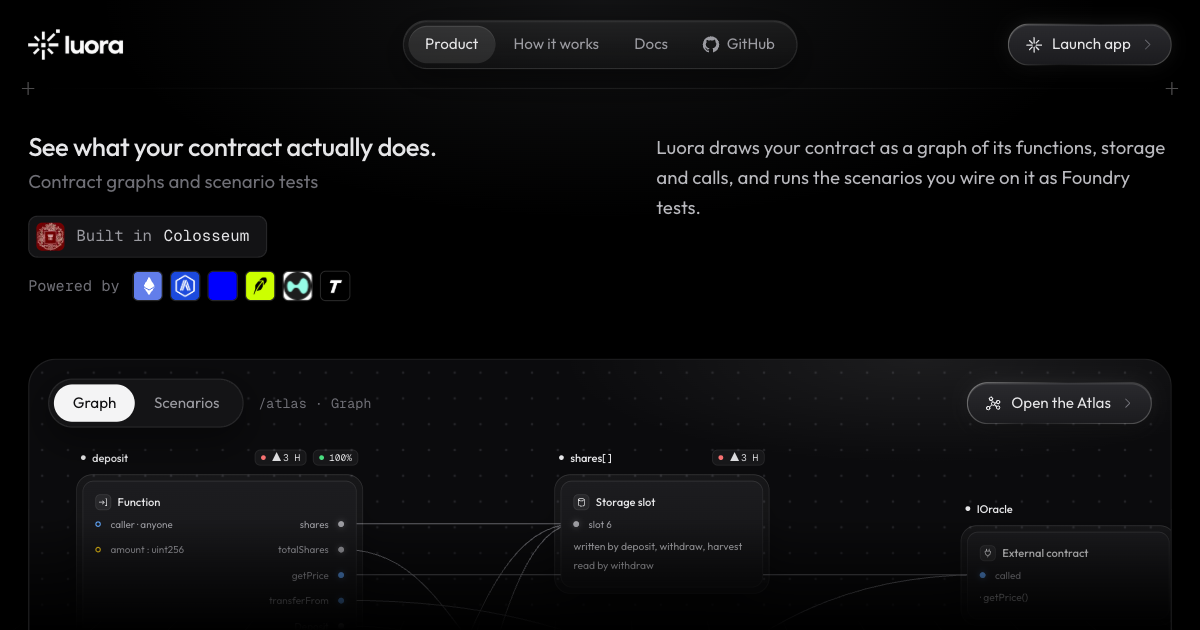
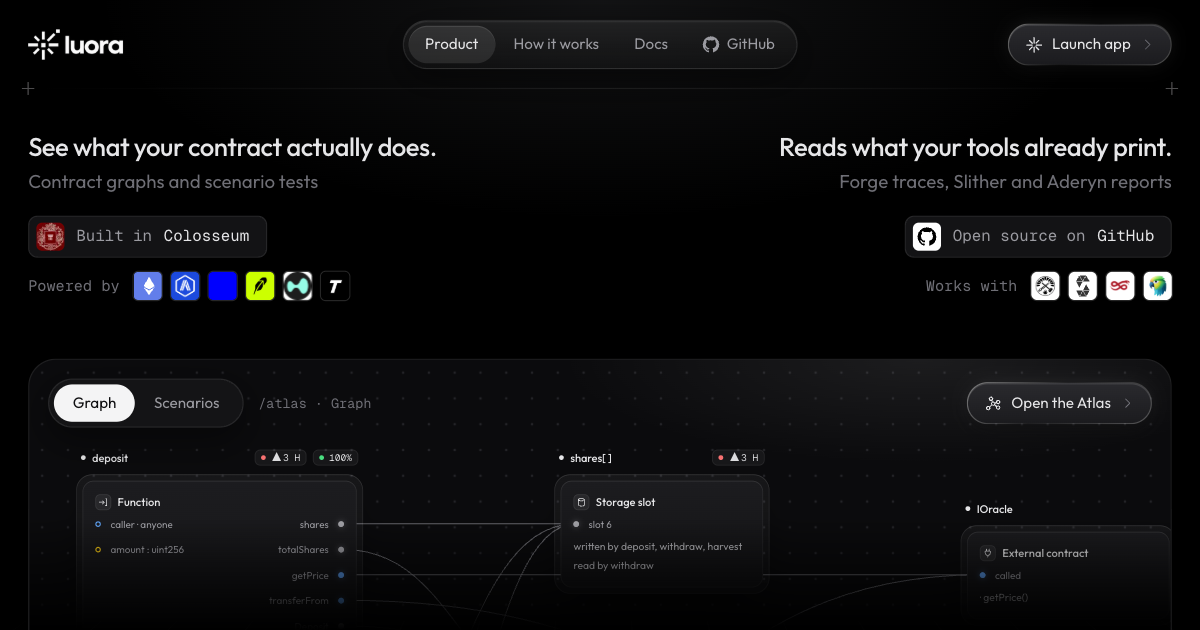
feat(landing): a mirrored right block in the hero, every mark a link
- The right side now mirrors the left block for block, flush right from md: "Reads what your
  tools already print." over "Forge traces, Slither and Aderyn reports", an "Open source on
  GitHub" chip, and "Works with" Foundry, Solidity, Slither and Aderyn (their marks on white
  tiles; Slither's and Aderyn's cropped from their wordmarks). It replaces the paragraph.
- Every mark opens its project's site in a new tab (noopener noreferrer): Colosseum, the six
  chains, the repo and the four tools.
- On phones the Lab window follows the stacked header in the flow instead of a fixed offset,
  so the taller header never runs into it at any width.
- The social card is re-rendered from the new hero.

Changed region(s): [[0.555, 0.2111, 0.9867, 0.3619], [0.74, 0.3317, 0.9867, 0.4825]]

diff --git a/apps/frontend/src/components/landing/Hero.tsx b/apps/frontend/src/components/landing/Hero.tsx
@@ -104,12 +104,51 @@ const ETHEREUM =
 
 /** the chains whose testnets the exporter forks, in the order the app lists them */
 const CHAINS = [
-  ["ethereum", "Ethereum"],
-  ["arbitrum", "Arbitrum"],
-  ["base", "Base"],
-  ["robinhood", "Robinhood Chain"],
-  ["hyperliquid", "Hyperliquid"],
-  ["tempo", "Tempo"],
+  ["ethereum", "Ethereum", "https://ethereum.org"],
+  ["arbitrum", "Arbitrum", "https://arbitrum.io"],
+  ["base", "Base", "https://www.base.org"],
+  ["robinhood", "Robinhood Chain", "https://robinhood.com/us/en/crypto/chain/"],
+  ["hyperliquid", "Hyperliquid", "https://hyperliquid.xyz"],
+  ["tempo", "Tempo", "https://tempo.xyz"],
+] as const;
+/** every mark in the hero opens its project's own site in a new tab */
+const OUT = { target: "_blank", rel: "noopener noreferrer" } as const;
+
+/** the tools Luora reads from: forge's runs, the Solidity source, Slither's and Aderyn's reports */
+const tool = (src: string) => (
+  <Image
+    src={src}
+    alt=""
+    width={36}
+    height={36}
+    className="size-full object-contain"
+  />
+);
+const TOOLS = [
+  ["Foundry", "https://getfoundry.sh", tool("/logos/tools/foundry.png")],
+  [
+    "Solidity",
+    "https://soliditylang.org",
+    <svg
+      key="sol"
+      aria-hidden="true"
+      viewBox="0 0 24 24"
+      fill="#363636"
+      className="size-full"
+    >
+      <path d={SOLIDITY} />
+    </svg>,
+  ],
+  [
+    "Slither",
+    "https://github.com/crytic/slither",
+    tool("/logos/tools/slither-mark.png"),
+  ],
+  [
+    "Aderyn",
+    "https://github.com/Cyfrin/aderyn",
+    tool("/logos/tools/aderyn-mark.png"),
+  ],
 ] as const;
 
 /**
@@ -136,7 +175,7 @@ export async function Hero() {
         data-lp="hero-body"
         className="relative z-10 mx-auto min-h-[calc(100svh-76px)] max-w-[1240px] px-4 pt-7 md:px-6 md:pt-9"
       >
-        {/* HK: title + subtitle + chips left, one line right */}
+        {/* HK: title + subtitle + chips left, the same four rows mirrored right */}
         <div className="relative z-10 grid gap-5 md:grid-cols-2 md:gap-10">
           <div className="lh-up" style={{ "--d": "0.1s" } as Delay}>
             <h1 className="font-medium text-[clamp(22px,2.1vw,30px)] text-fg leading-tight tracking-[-0.02em]">
@@ -148,7 +187,11 @@ export async function Hero() {
             {/* where Luora is being built (the Colosseum hackathon, its mark in the chip), and the
                 chains whose testnets it forks (luora-export.mjs --forks), their marks in a row */}
             <div className="mt-5 flex flex-col items-start gap-3">
-              <span className="inline-flex h-9 items-center gap-2.5 rounded-[8px] border border-white/[.08] bg-[#131315] pr-3.5 pl-1.5 font-mono text-[13.5px] text-muted">
+              <a
+                href="https://colosseum.com"
+                {...OUT}
+                className="inline-flex h-9 items-center gap-2.5 rounded-[8px] border border-white/[.08] bg-[#131315] pr-3.5 pl-1.5 font-mono text-[13.5px] text-muted transition-colors hover:border-white/[.16]"
+              >
                 <Image
                   src="/logos/colloseum.jpg"
                   alt=""
@@ -157,34 +200,75 @@ export async function Hero() {
                   className="size-6 rounded-[5px]"
                 />
                 Built in <span className="text-fg">Colosseum</span>
-              </span>
+              </a>
               <p className="flex items-center gap-3 font-mono text-[13px] text-dim">
                 Powered by
                 <span className="flex items-center gap-2">
-                  {CHAINS.map(([family, name]) => (
-                    <span key={family} title={name}>
+                  {CHAINS.map(([family, name, href]) => (
+                    <a
+                      key={family}
+                      href={href}
+                      {...OUT}
+                      title={name}
+                      aria-label={name}
+                      className="transition-transform hover:-translate-y-0.5"
+                    >
                       <ChainLogo family={family} className="size-6" />
-                    </span>
+                    </a>
                   ))}
-                </span>
-                <span className="sr-only">
-                  {CHAINS.map(([, name]) => name).join(", ")}
                 </span>
               </p>
             </div>
           </div>
-          <p
-            className="lh-up max-w-[440px] text-[15px] text-body leading-relaxed md:justify-self-end md:text-[16px]"
+          {/* the right side mirrors the left block for block: title, grey subtitle, a chip (the
+              repo, MIT), then a row of marks (the tools whose output Luora reads: forge runs,
+              Solidity source, the analyzers' reports, on white tiles as they ship them) */}
+          <div
+            className="lh-up md:justify-self-end md:text-right"
             style={{ "--d": "0.25s" } as Delay}
           >
-            Luora draws your contract as a graph of its functions, storage and
-            calls, and runs the scenarios you wire on it as Foundry tests.
-          </p>
+            <h2 className="font-medium text-[clamp(22px,2.1vw,30px)] text-fg leading-tight tracking-[-0.02em]">
+              Reads what your tools already print.
+            </h2>
+            <p className="mt-1 text-[clamp(16px,1.5vw,20px)] text-dim leading-tight">
+              Forge traces, Slither and Aderyn reports
+            </p>
+            <div className="mt-5 flex flex-col items-start gap-3 md:items-end">
+              <a
+                href={GITHUB}
+                {...OUT}
+                className="inline-flex h-9 items-center gap-2.5 rounded-[8px] border border-white/[.08] bg-[#131315] pr-3.5 pl-1.5 font-mono text-[13.5px] text-muted transition-colors hover:border-white/[.16]"
+              >
+                <span className="grid size-6 place-items-center rounded-[5px] bg-white text-black">
+                  <GitHubMark className="size-4" />
+                </span>
+                Open source on <span className="text-fg">GitHub</span>
+              </a>
+              <p className="flex items-center gap-3 font-mono text-[13px] text-dim">
+                Works with
+                <span className="flex items-center gap-2">
+                  {TOOLS.map(([name, href, mark]) => (
+                    <a
+                      key={name}
+                      href={href}
+                      {...OUT}
+                      title={name}
+                      aria-label={name}
+                      className="grid size-6 place-items-center rounded-[5px] bg-white p-[3px] ring-1 ring-white/15 transition-transform hover:-translate-y-0.5"
+                    >
+                      {mark}
+                    </a>
+                  ))}
+                </span>
+              </p>
+            </div>
+          </div>
         </div>
 
-        {/* the Lab window, where HK had its chart */}
+        {/* the Lab window, where HK had its chart; on phones it follows the stacked header in the
+            flow (their height depends on the width), from md it sits under the two-column header */}
         <div
-          className="lh-up absolute inset-x-4 top-[300px] bottom-0 md:inset-x-6 md:top-[230px]"
+          className="lh-up relative mt-9 h-[440px] md:absolute md:inset-x-6 md:top-[230px] md:bottom-0 md:mt-0 md:h-auto"
           style={{ "--d": "0.35s" } as Delay}
         >
           <HeroLab contract={contract} scenario={scenario} />
